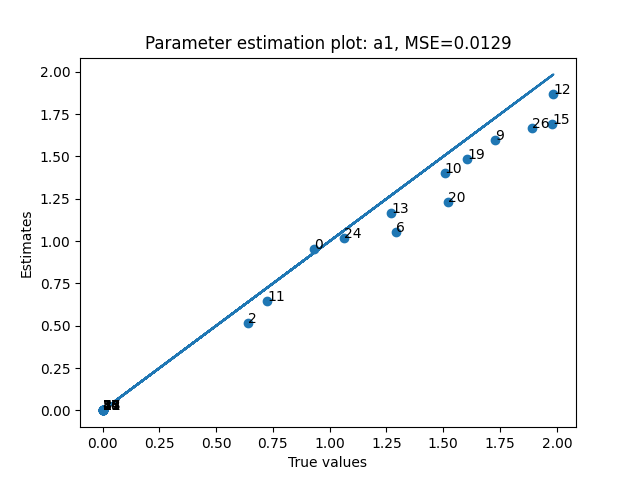
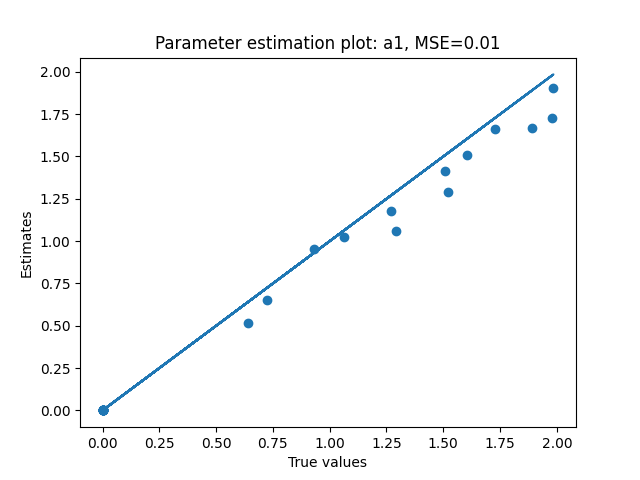
added early stopping

diff --git a/main.py b/main.py
@@ -53,8 +53,8 @@ with open("./config.yml", "r") as f:
 logger = CSVLogger("logs", name="my_logs")
 trainer = Trainer(fast_dev_run=False,
                   max_epochs=cfg['max_epochs'],
-                  logger=logger)#,
-                  #callbacks=[EarlyStopping(monitor='train_loss', min_delta=1e-8, patience=100, mode='min')])
+                  logger=logger,
+                  callbacks=[EarlyStopping(monitor='train_loss', min_delta=1e-8, patience=100, mode='min')])
 QMatrix = genfromtxt(cfg['Q_matrix_file'], delimiter=',')
 vae = VariationalAutoencoder(latent_dims=cfg['latent_dims'],
                              hidden_layer_size=int((28+2)*cfg['latent_dims']/2),
@@ -100,8 +100,8 @@ for dim in range(3):
     mse = MSE(ai_est, ai_true)
     plt.scatter(y=ai_est, x=ai_true)
     plt.plot(ai_true, ai_true)
-    for i, x in enumerate(ai_true):
-        plt.text(ai_true[i], ai_est[i], i)
+    #for i, x in enumerate(ai_true):
+    #    plt.text(ai_true[i], ai_est[i], i)
     plt.title(f'Parameter estimation plot: a{dim+1}, MSE={round(mse,4)}')
     plt.xlabel('True values')
     plt.ylabel('Estimates')
